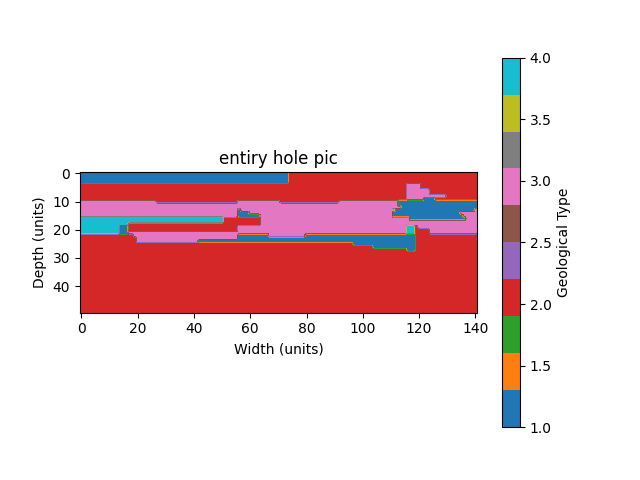
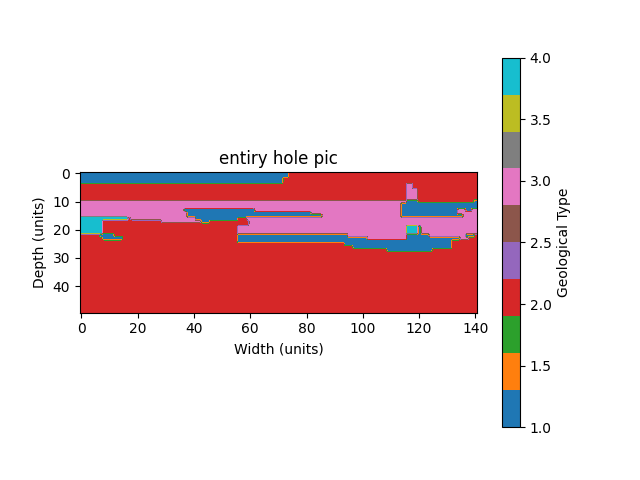
修正位置資料為0的預測結果

Changed region(s): [[0.1562, 0.4062, 0.5312, 0.5312], [0.5312, 0.375, 0.75, 0.5312]]

diff --git a/gpt.py b/gpt.py
@@ -2,6 +2,8 @@ import numpy as np
 import pandas as pd
 import operator as op
 import matplotlib.pyplot as plt
+from collections import Counter
+
 # -----------testing file----------------
 Matrix4D = "test.csv"
 Matrix5D = '5DMatrix.csv'
@@ -10,7 +12,7 @@ test='test - 複製.csv'
 eightSoil='8soil.csv'
 # -----------testing file----------------
 # file preprocessing
-entire_file = pd.read_csv(eightSoil, delimiter=",").fillna(0).values # 讀取文件空值全部補0
+entire_file = pd.read_csv(test, delimiter=",").fillna(0).values # 讀取文件空值全部補0
 entiry_matrix = entire_file[1:, :]  # skip first column 第一行是位置
 Hole_distance = entire_file[0]
 # 取得土壤種類
@@ -18,12 +20,12 @@ unique_numbers = np.unique(entiry_matrix)
 # 從unique_numbers過濾掉0
 unique_numbers = unique_numbers[unique_numbers != 0]
 typenumber = len(unique_numbers)
-
-
 # 建立土壤代號對應的數字
 mapping = {value: index+1 for index, value in enumerate(unique_numbers)}
 # 將公司土壤代號轉換為 1 ~ ...
-entiry_matrix =  np.array([[mapping[value] if not value==0 else np.nan for value in row] for row in entiry_matrix])
+def map_value(value):
+    return mapping.get(value, value)  # 如果 value 在 mapping 中有對應的值，則映射；否則保持原值
+entiry_matrix =  np.vectorize(map_value)(entiry_matrix)
 transitionName = np.arange(1,typenumber+1)
 # file preprocessing
 
@@ -36,9 +38,6 @@ D = int(entiry_matrix.shape[0] )
 denominator = 0
 molecular = 0
 A = W * D
-# 空資料填充0
-
-entiry_matrix[np.isnan(entiry_matrix)] = 0
 HoleLocation_entire=(Hole_distance/interval).astype(int)
 
 print('最大位置',Hole_distance.max())
@@ -46,7 +45,6 @@ print('最深資料(個):', D)
 print('寬度', W,'深度', D)
 print('共有', typenumber, '種土壤材質')
 print("土壤代號",unique_numbers,entiry_matrix[0])
-
 print('mapping:', mapping)
 # 定義各個孔洞的位置
 print('孔洞完整位置:', HoleLocation_entire)
@@ -57,7 +55,7 @@ def calculate_transition_matrix(matrix,hole_location):
     # # 將地質數據中的類型分組存儲到 group_number 數組中
     #   TODO
     for i in range(W):
-        if i < 74:
+        if i < int(W/2):
             group_number[0][i] = 1
         else:
             group_number[0][i] = 2
@@ -66,30 +64,48 @@ def calculate_transition_matrix(matrix,hole_location):
             group_number[i][(hole_location[j])] = matrix[i][j]
 
     T_t_V = np.zeros(len(matrix))
+    print('T_t_V:',T_t_V)
     soiltype_V = {}
 
-    for i in range(np.size(matrix, 1)):
-        for j in range(len(matrix)):
-            T_t_V[j] = matrix[j][i]
-        for k in T_t_V[0:len(T_t_V)]:
-            soiltype_V[k] = soiltype_V.get(k, 0) + 1
-
+    # ------------------------------------------------------------
+    # for i in range(len(matrix[0])):
+    #     for j in range(len(matrix)):
+    #         if(matrix[j][i] == 0):
+    #             continue
+    #         T_t_V[j] = matrix[j][i]
+    #     for k in T_t_V[0:len(T_t_V)]:
+    #         soiltype_V[k] = soiltype_V.get(k, 0) + 1
+    # rewrite the code above
+    # Count the occurrence times of each soiltype
+    # for row in matrix:
+    #     for item in row:
+    #         if item == 0:
+    #             continue
+    #         if item in soiltype_V:
+    #             soiltype_V[item] += 1
+    #         else:
+    #             soiltype_V[item] = 1
+    #------------------------------------------------------------ 
+    soiltype_V = Counter(matrix.flatten())
+    del soiltype_V[0]  # Remove count of zeros, if necessary
     soiltype_V = sorted(soiltype_V.items(), key=op.itemgetter(0), reverse=False)
-
-    VPCM = np.zeros([len(soiltype_V), len(soiltype_V)])
-    Tmatrix_V = np.zeros([len(soiltype_V), len(soiltype_V)])
+    print('soiltype_V:',soiltype_V)
+    VPCM = np.zeros((typenumber, typenumber))
+    Tmatrix_V = np.zeros((typenumber, typenumber))
 
     for i in range(np.size(matrix, 1)):
         for j in range(len(matrix)):
             T_t_V[j] = matrix[j][i]
 
         for k in range(len(T_t_V) - 1):
-            for m in range(len(soiltype_V)):
-                for n in range(len(soiltype_V)):
+            if T_t_V[k]==0 or T_t_V[k+1]==0:
+                break
+            for m in range(typenumber):
+                for n in range(typenumber):
                     if T_t_V[k] == soiltype_V[m][0] and T_t_V[k + 1] == soiltype_V[n][0]:
                         VPCM[m][n] += 1
                         Tmatrix_V[m][n] += 1
-
+    # 正規化
     count_V = np.sum(Tmatrix_V, axis=1)
     for i in range(np.size(Tmatrix_V, 1)):
         for j in range(np.size(Tmatrix_V, 1)):
@@ -112,11 +128,13 @@ def calculate_transition_matrix(matrix,hole_location):
     for i in range(np.size(Tmatrix_H, 1)):
         for j in range(np.size(Tmatrix_H, 1)):
             Tmatrix_H[i][j] = Tmatrix_H[i][j] / count_H[i]
+            
     return Tmatrix_V, Tmatrix_H ,group_number
 
 # 計算 HoleLocation_entire 的轉移矩陣
 Tmatrix_V_entire, Tmatrix_H_entire ,group_number_entire= calculate_transition_matrix(entiry_matrix,HoleLocation_entire)
-
+print('Tmatrix_V_entire:\n',Tmatrix_V_entire)
+print('Tmatrix_H_entire:\n',Tmatrix_H_entire)
 # 預測地質類型的函數
 def predict_geological_types(Tmatrix_V, Tmatrix_H, HoleLocation,group_number):
     L_state = 0
@@ -130,41 +148,64 @@ def predict_geological_types(Tmatrix_V, Tmatrix_H, HoleLocation,group_number):
         conditions[(HoleLocation[j - 1], HoleLocation[j])] = HoleLocation[j]
     for layer in range(1,D):
         for i in range(W):
-            # 若為鑽孔位置並且是有資料的就跳過
-            if i in (HoleLocation) and i != 0:
+            # 若為位置是有資料的就跳過(為鑽孔位置)
+            if group_number[layer][i] :
                 continue
+            
             L_state = 0
             M_state = 0
             Q_state = 0
-            for (lower, upper), nx in conditions.items():
-                if lower < i < upper:
-                    L_state = group_number[layer][i-1] - 1
-                    M_state = group_number[layer-1][i] - 1
-                    Q_state = group_number[layer][nx] - 1
-                    Nx = nx
-                    break
-            
             Nx_TH = Tmatrix_H
             f_sum = 0
             k_sum = 0
-            for _ in range(1, Nx - i):
-                Nx_TH = np.dot(Nx_TH, Tmatrix_H)
+            Nx=0
+            if i in HoleLocation:
+                if i!=0:
+                    holekey=np.where(HoleLocation == i)[0][0]
+                    for holeIndex in range(holekey,-1,-1):
+                        if HoleLocation[holeIndex] != 0:
+                            Nx = HoleLocation[holeIndex]
+                            break
+                    for _ in range(1, Nx - i):
+                        Nx_TH = np.dot(Nx_TH, Tmatrix_H)
+            else:
+                for (lower, upper), nx in conditions.items():
+                    if lower < i < upper:
+                        Nx = nx
+                        break
+                for _ in range(1, Nx - i):
+                    Nx_TH = np.dot(Nx_TH, Tmatrix_H)
+            L_state = group_number[layer][i-1] - 1
+            M_state = group_number[layer-1][i] - 1
+            Q_state = group_number[layer][Nx] - 1          
+           
+            
             for f in range(typenumber):
                 f_item1 = Tmatrix_H[int(L_state)][f]
                 f_item2 = Nx_TH[f][int(Q_state)]
                 f_item3 = Tmatrix_V[int(M_state)][f]
                 f_sum += f_item1 * f_item2 * f_item3
-            if f_sum == 0:
+            if f_sum == 0 :
                 current_matrix= np.ones(typenumber) / typenumber
+                # print('current_matrix:',current_matrix)
             else:
                 for k in range(typenumber):
                     k_item1 = Tmatrix_H[int(L_state)][k]
                     k_item2 = Nx_TH[k][int(Q_state)]
                     k_item3 = Tmatrix_V[int(M_state)][k]
                     k_sum = k_item1 * k_item2 * k_item3
+
                     current_matrix[k] = k_sum / f_sum
+
             # 進行預測
-            group_number[layer][i] = np.random.choice(transitionName, replace=True, p=current_matrix)
+            predict_type = np.random.choice(transitionName, replace=True, p=current_matrix)
+            if i in HoleLocation:
+                print('k_sum:',k_sum,'f_sum:',f_sum,'Nx:',Nx)
+                # print('layer:',layer,'i:',i)
+                # print('predict_type:',predict_type)
+                # print('current_matrix:',current_matrix)
+                # print('transitionName:',transitionName)
+            group_number[layer][i] =predict_type
     return group_number
 
 
@@ -173,18 +214,15 @@ predict_result_entire = predict_geological_types(Tmatrix_V_entire, Tmatrix_H_ent
 
 
 # 可視化地質類型分布
+plt.figure(figsize=(6, 4), dpi=150)
 plt.imshow(predict_result_entire, cmap='tab10', origin='upper')
-# plt.colorbar(label='Geological Type')
 cbar = plt.colorbar()
 # 獲取mapping所有key
 mapping_key = list(mapping.keys())
 mapping_value = list(mapping.values())
-
 print('mapping_key:',mapping_key)
 print('mapping_value:',mapping_value)
-
 cbar.set_ticks(mapping_value)  # 設置顏色條刻度
-# # 獲取mapping所有value
 cbar.set_ticklabels(mapping_key)  # 設置顏色條標籤
 plt.title('predict')
 plt.xlabel('Width (units)')

diff --git a/ollie.py b/ollie.py
@@ -1,16 +1,22 @@
 import numpy as np
 
-# 原始陣列
-array = np.array([0, 112, 202, 242, 264, 303, 307, 424,1,2])
+# 創建一個二維的NumPy矩陣
+matrix = np.array([
+    [1, 2, 3],
+    [2, 3, 1],
+    [1, 2, 1]
+])
 
-# 將陣列排序
-sorted_indices = np.argsort(array)
-print("排序後的索引：", sorted_indices)
-sorted_array = array[sorted_indices]
+# 使用一個字典來統計出現次數
+count_map = {}
 
-# 為排序後的陣列分配編號
-sorted_with_indices = [(i, val) for i, val in enumerate(sorted_array)]
+# 迭代矩陣中的每個元素
+for row in matrix:
+    for item in row:
+        if item in count_map:
+            count_map[item] += 1
+        else:
+            count_map[item] = 1
 
-print("排序後的陣列和編號：")
-for idx, val in sorted_with_indices:
-    print(f"編號: {idx + 1}, 值: {val}")
+print("每個元素的出現次數:")
+print(count_map)
